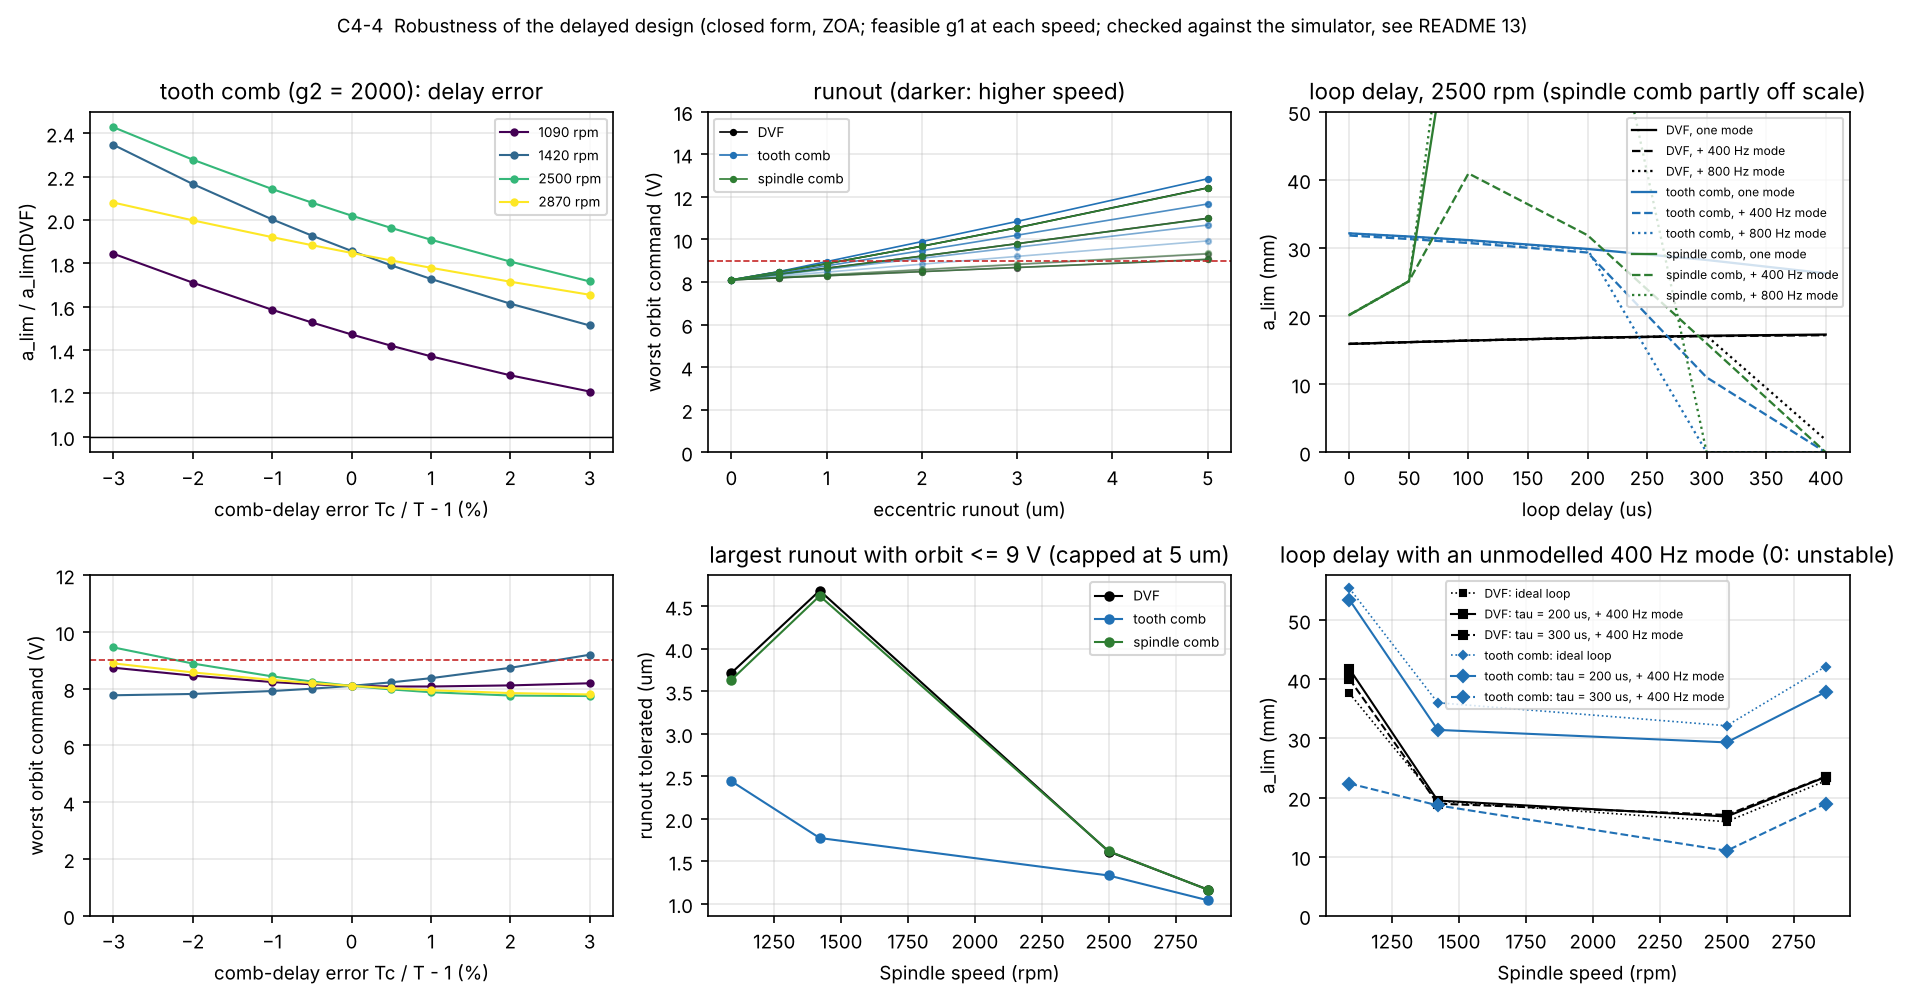
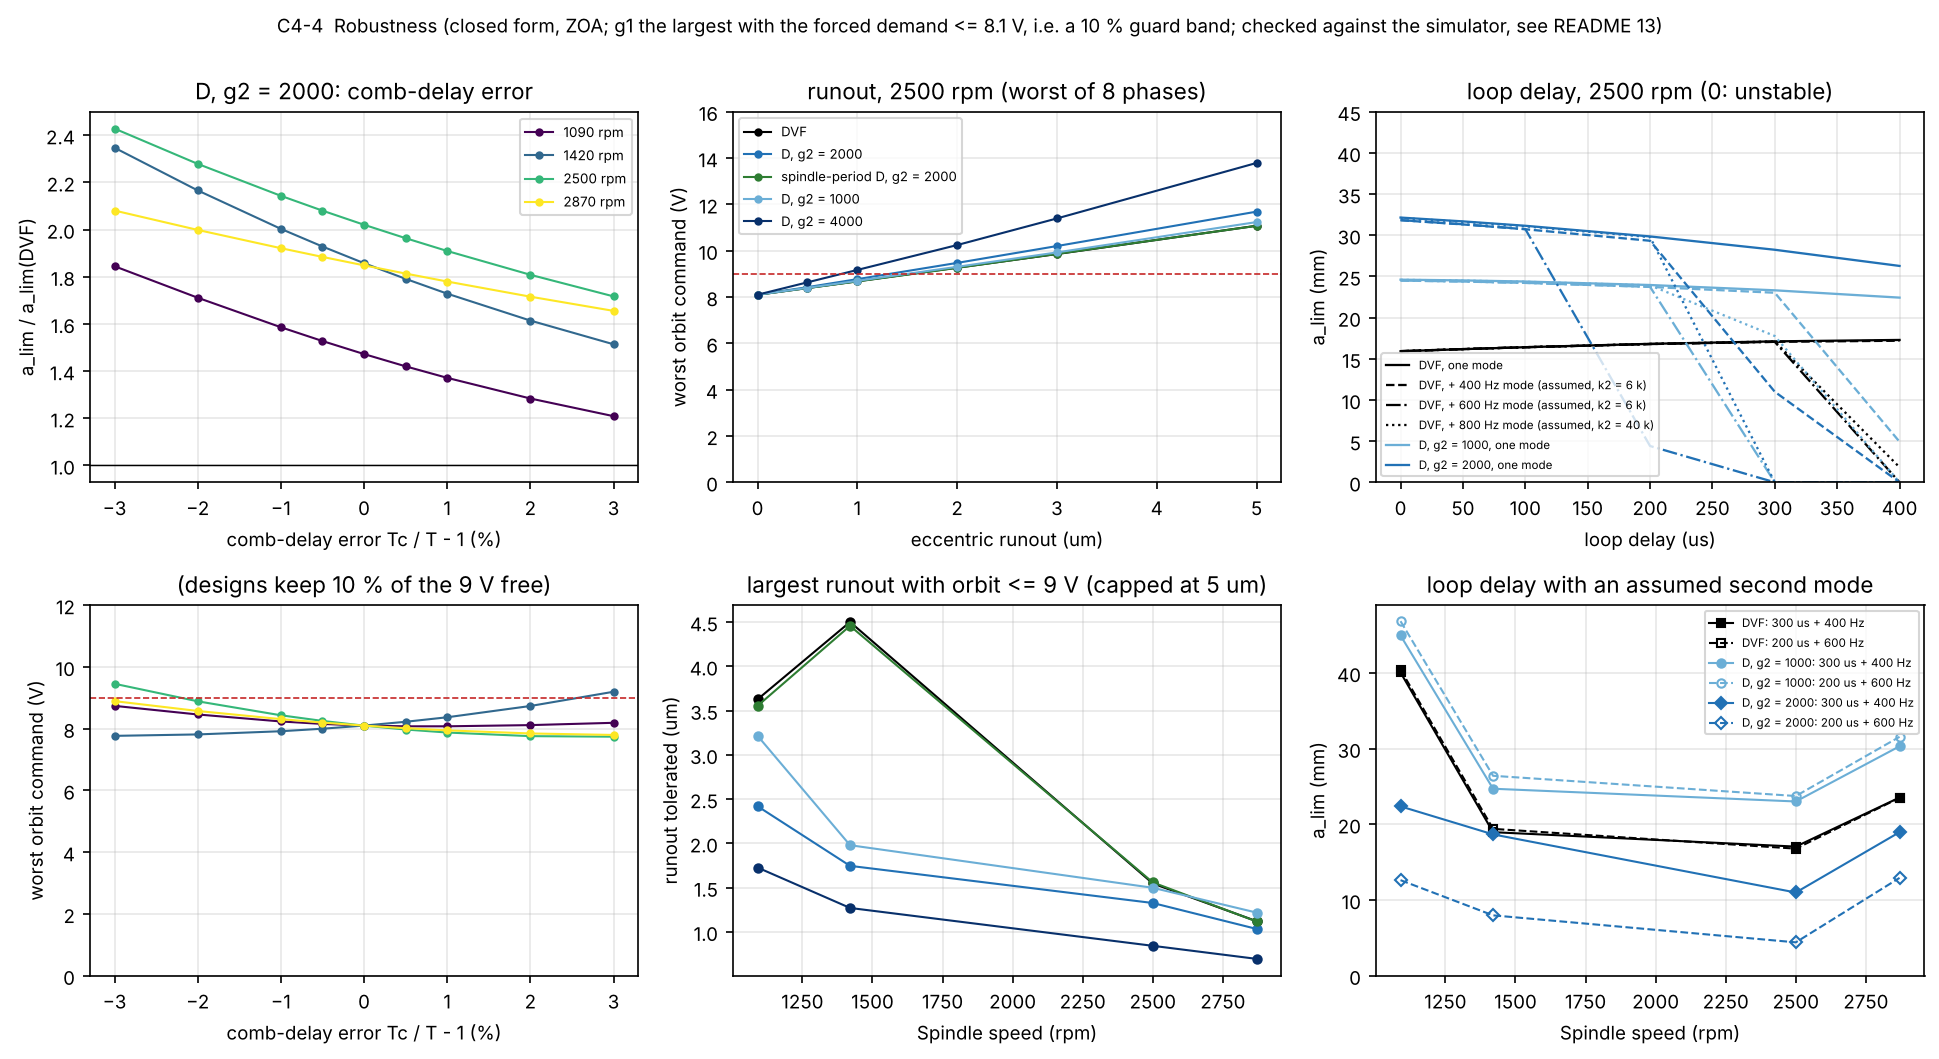
C4: figures 1, 2, 4 with the chain-2 data; test: the delay fragility is the comb's phase, not its gain
Claude-Session: https://claude.ai/code/session_016Cg6GfRgF33WM7u89dxVZA

diff --git a/ozsoy2026/tests/test_c4_comb.py b/ozsoy2026/tests/test_c4_comb.py
@@ -183,3 +183,14 @@ def test_closed_form_orbit_command_matches_the_simulator(case):
     (time-varying cut, 30 layers) and the closed form agree to 2 %."""
     td, cf, drift = R._td_orbit(case)
     assert drift < 1e-8 and td == pytest.approx(cf, rel=0.02)
+
+
+def test_comb_fragility_to_delay_is_its_phase_not_its_gain():
+    """2500 rpm, 300 us loop delay and an assumed 400 Hz mode: the delayed
+    design (g1 = 1396, g2 = 2000) loses most of its limit, while a plain DVF
+    with the comb's peak gain g1 + 2 g2 stays stable much deeper; so the loss
+    comes from the phase of 1 - exp(-sT), not from the gain magnitude."""
+    g1, g2, mode = 1395.8, 2000.0, (400.0, 6.0, 0.01)
+    comb = R.a_lim_cf(2500.0, g1, g2, tau=300e-6, mode2=mode)
+    flat = R.a_lim_cf(2500.0, g1 + 2 * g2, tau=300e-6, mode2=mode)
+    assert comb < 0.5 * R.a_lim_cf(2500.0, g1, g2) and flat > 3 * comb
